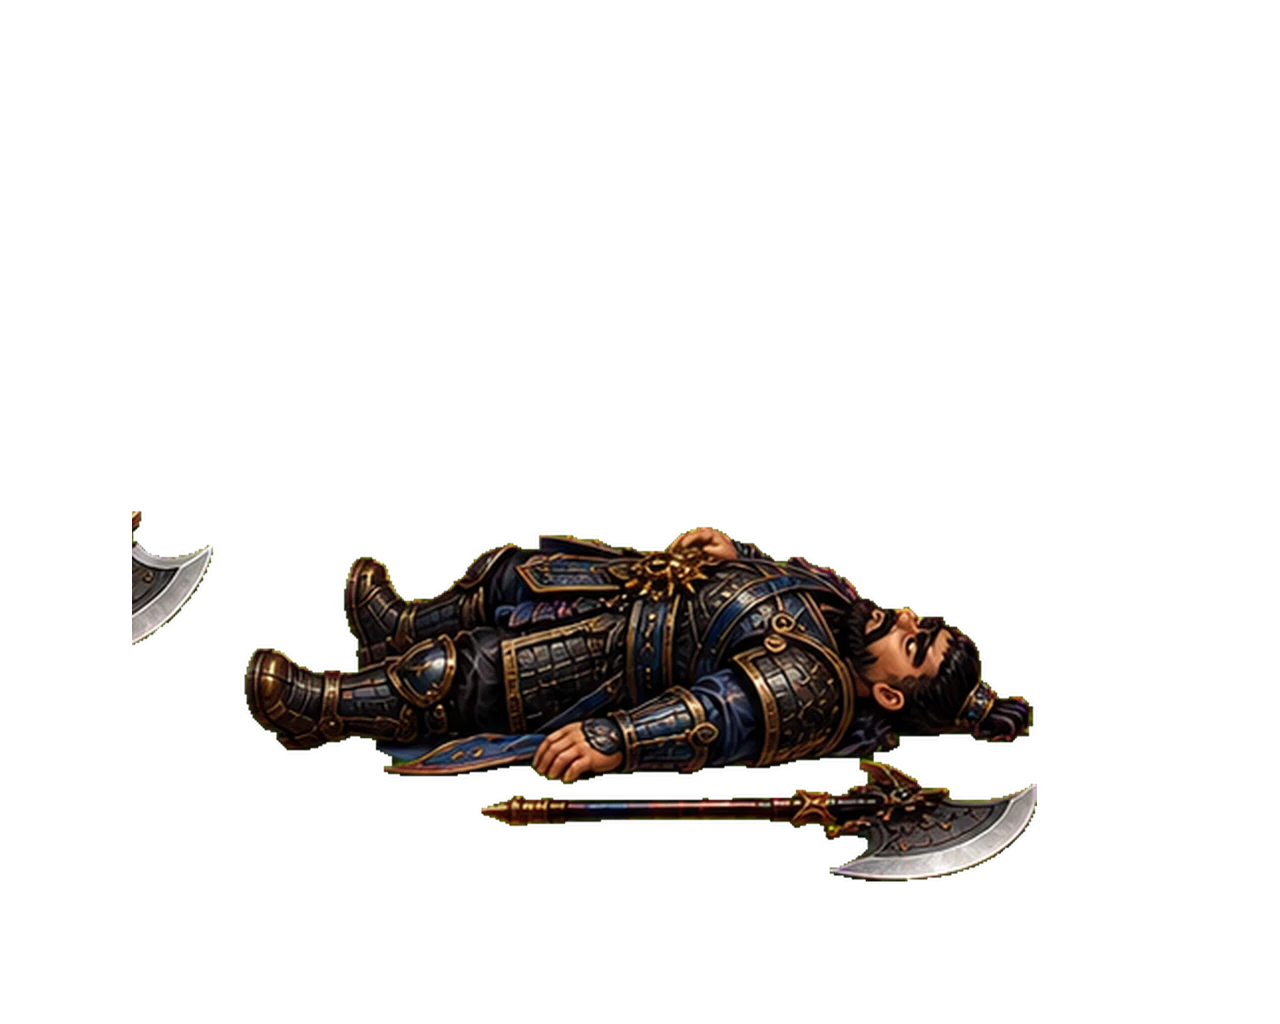
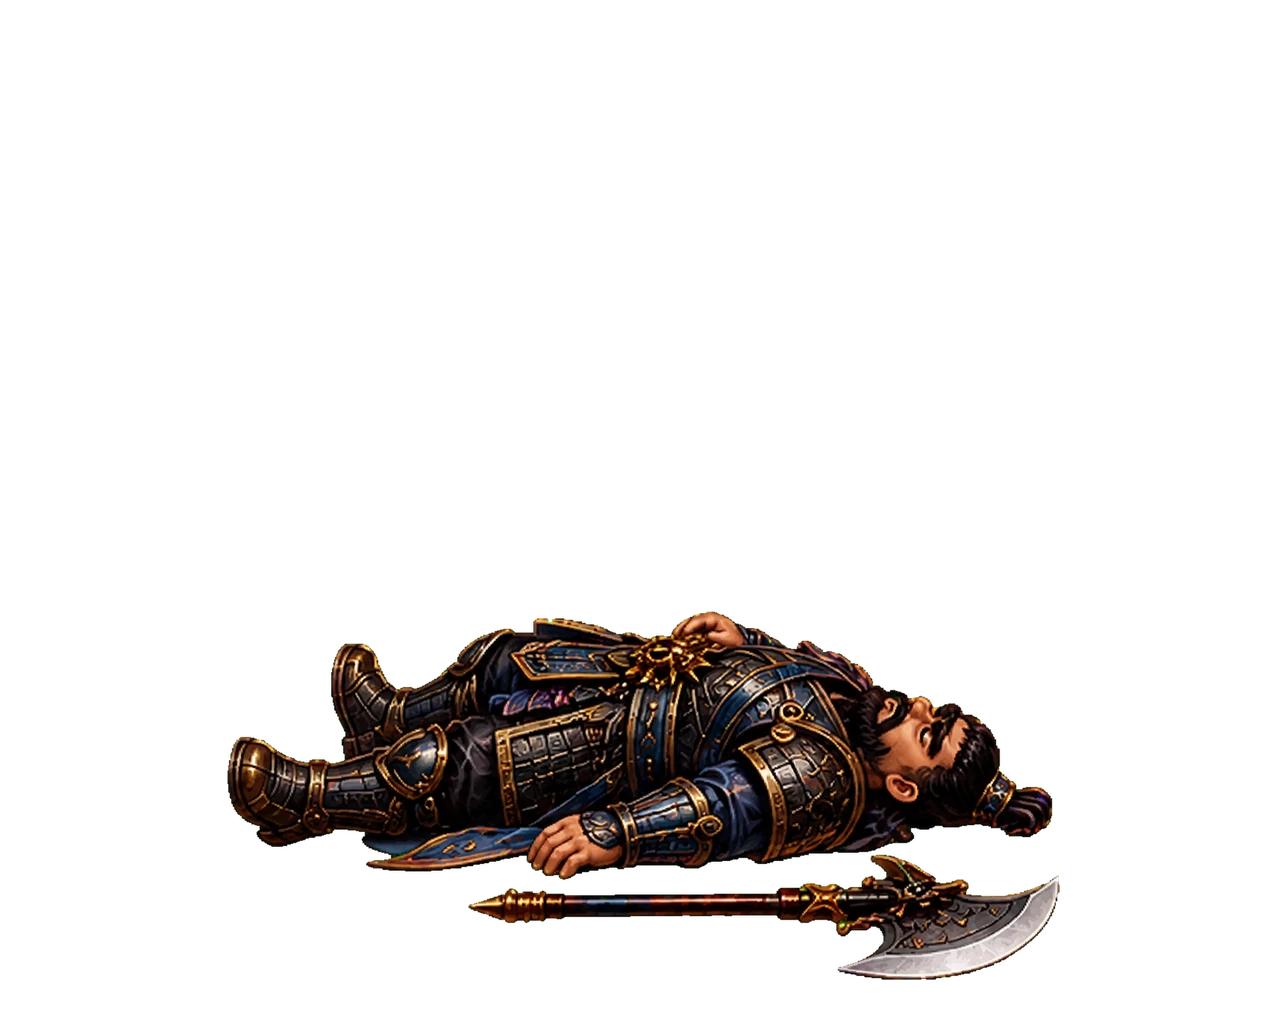
Preserve complete dropped weapons in KO pose repairs

Changed region(s): [[0.1562, 0.5, 0.8438, 0.9688], [0.0938, 0.5, 0.1875, 0.625]]

diff --git a/tools/split_pose_sheet.py b/tools/split_pose_sheet.py
@@ -441,6 +441,15 @@ def main():
     # 이름 개수를 아는 경우, 그 수가 나올 때까지 침식을 조금씩 키운다.
     want = len([n for n in (args.names or '').split(',') if n.strip()])
     blobs = split_components(fg)
+    # A one-pose repair can legitimately contain a fallen body and a separately
+    # dropped, but complete, weapon.  They are one animation cell, not two
+    # sprite cells, so keep their shared silhouette together before matching
+    # the requested name.
+    if want == 1 and len(blobs) > 1:
+        ys, xs = np.nonzero(fg)
+        if len(xs):
+            blobs = [(xs.min(), ys.min(), xs.max() + 1, ys.max() + 1, fg)]
+            print('  one-pose sheet: merged detached weapon into its KO cell')
     if want and len(blobs) != want:
         for e in (13, 17, 21, 25):
             trial = split_components(fg, erode=e)

diff --git a/tools/patch_general.py b/tools/patch_general.py
@@ -118,7 +118,10 @@ def main():
     # to a standing pose, so re-scaling it by the roster's vertical body metric
     # would enlarge it again and crop the head or weapon.
     keep_fitted_ko = any(n == 'ko_down' for n in names)
-    k = 1.0 if keep_fitted_ko else ref / new
+    # A grounded KO must never be enlarged from a standing-pose metric, but an
+    # oversized generated replacement still has to be reduced to avoid a
+    # visible size jump when the character hits the ground.
+    k = min(1.0, ref / new) if keep_fitted_ko else ref / new
     if keep_fitted_ko:
         print('[크기 맞춤] ko_down: 캔버스에 맞춘 가로 KO 크기 유지')
     else:
